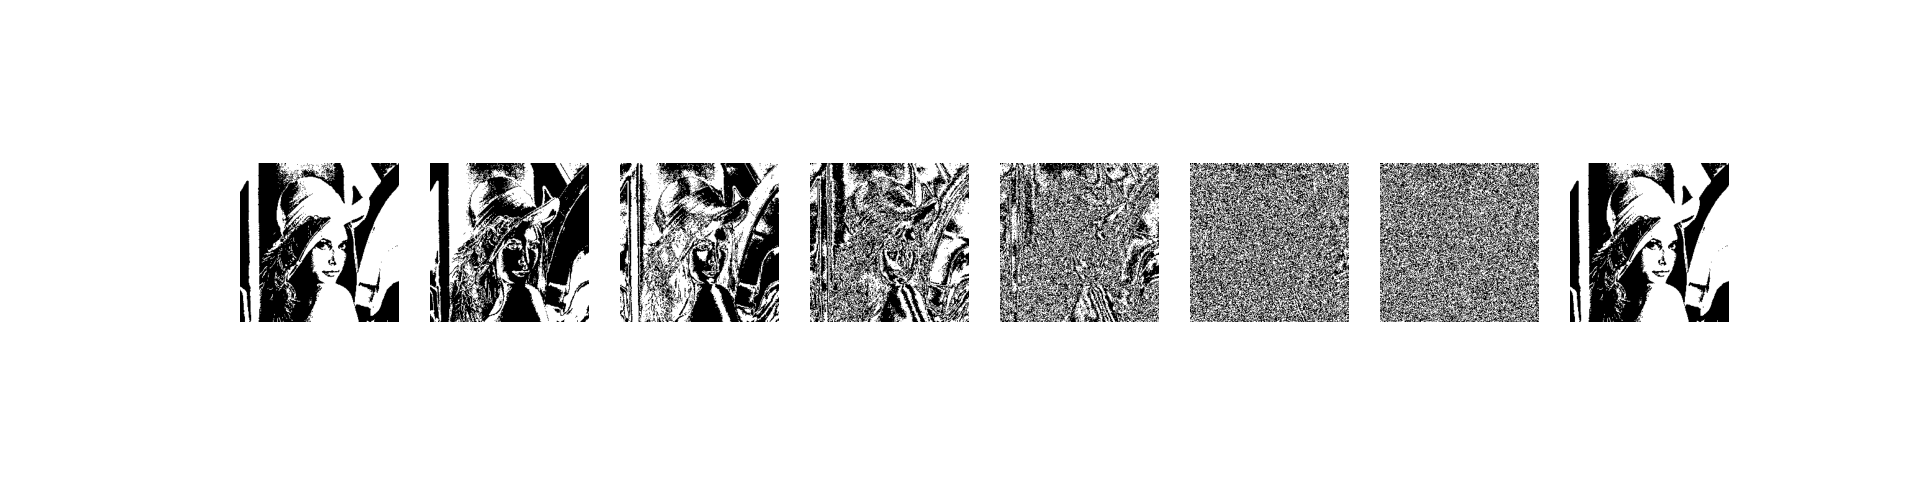
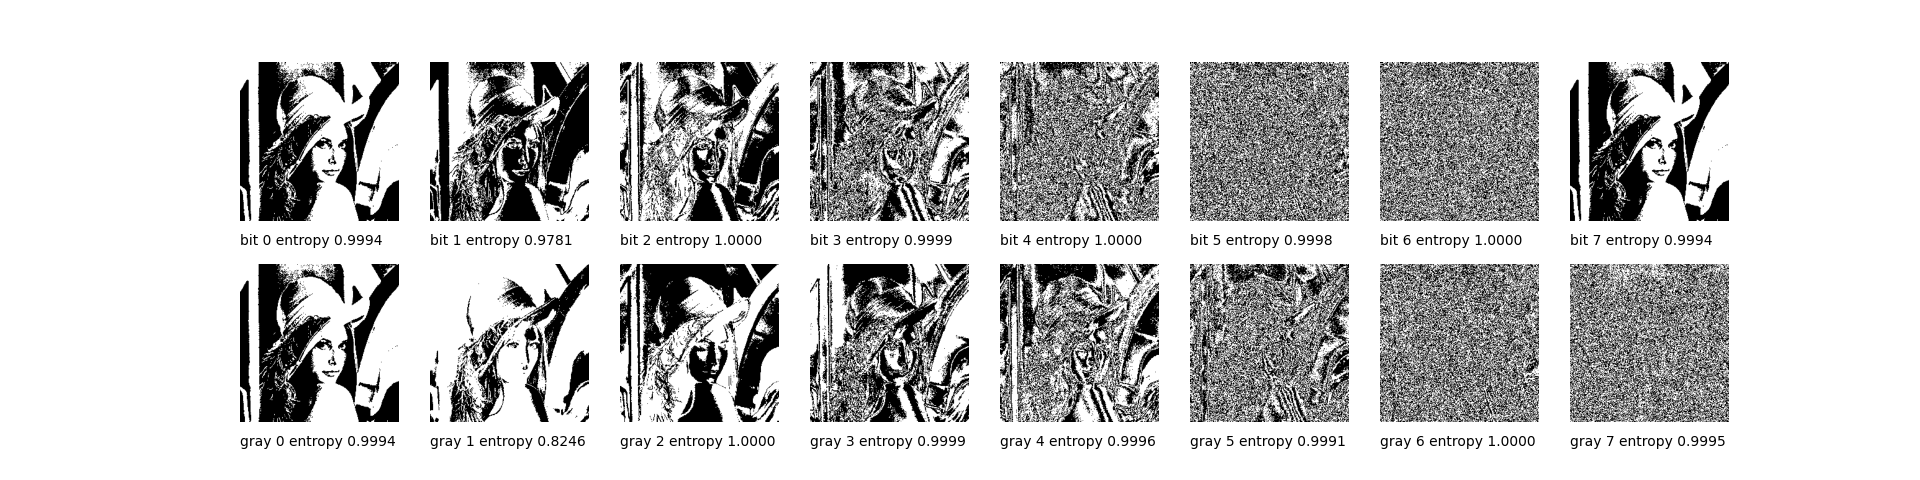
add hw1, hw2, hw3 implementations

diff --git a/hw_0425/hw3.py b/hw_0425/hw3.py
@@ -1,0 +1,55 @@
+import numpy as np
+import imageio as iio
+import matplotlib.pyplot as plt
+
+img = iio.imread("lena.png")
+diff_img = img.flatten() - np.concatenate([[0], img.flatten()[:-1]], 0)
+diff_img = diff_img.reshape(img.shape)
+diff_trunc_img = np.clip(diff_img, -16, 16)
+
+from huffman import *
+from collections import Counter
+
+def get_freq(e):
+  freq = dict(Counter([str(k) for k in e.flatten()]))
+  freq = sorted(freq.items(), key=lambda x: x[1], reverse=True)
+  return freq
+
+img_freq = get_freq(img)
+diff_img_freq = get_freq(diff_img)
+diff_trunc_img_freq = get_freq(diff_trunc_img)
+
+img_code = huffman_code_tree(make_tree(img_freq))
+diff_img_code = huffman_code_tree(make_tree(diff_img_freq))
+diff_trunc_img_code = huffman_code_tree(make_tree(diff_trunc_img_freq))
+
+def get_avg_len(freqs, code):
+  avg_len = []
+  for sym, freq in freqs:
+    avg_len.append(freq * len(code[sym]))
+  avg_len = sum(avg_len) / sum([e[1] for e in freqs])
+  return avg_len
+
+avg_img_len = get_avg_len(img_freq, img_code)
+avg_diff_img_len = get_avg_len(diff_img_freq, diff_img_code)
+avg_diff_trunc_img_len = get_avg_len(diff_trunc_img_freq, diff_trunc_img_code)
+
+print("{} {} {}".format(
+  8/avg_img_len, 8/avg_diff_img_len, 8/avg_diff_trunc_img_len))
+
+fig = plt.figure(figsize=(19.2, 4.8))
+
+ax = fig.add_subplot(1, 3, 1)
+ax.hist(img.flatten(), density=True, bins=60)
+ax.set_title("compression ratio: {}".format(8/avg_img_len))
+
+ax_diff = fig.add_subplot(1, 3, 2)
+ax_diff.hist(diff_img.flatten(), density=True, bins=60)
+ax_diff.set_title("compression ratio: {}".format(8/avg_diff_img_len))
+
+ax_diff_trunc = fig.add_subplot(1, 3, 3)
+ax_diff_trunc.set_xlim(ax_diff.get_xlim())
+ax_diff_trunc.hist(diff_trunc_img.flatten(), density=True, bins=8)
+ax_diff_trunc.set_title("compression ratio: {}".format(8/avg_diff_trunc_img_len))
+
+plt.savefig('hist.png')

diff --git a/hw_0425/hw1.py b/hw_0425/hw1.py
@@ -1,0 +1,55 @@
+import numpy as np
+import imageio as iio
+import matplotlib.pyplot as plt
+from collections import Counter
+
+def get_entropy(e):
+  freq = dict(Counter([str(k) for k in e.flatten()]))
+  prob = np.array([e[1] for e in list(freq.items())])
+  prob = prob / np.sum(prob)
+
+  return sum([-p*np.log2(p) for p in prob])
+
+def get_bits(e):
+  return [(e>>i) % 2 for i in range(8)][::-1]
+
+def conv_gray(e):
+  bits = get_bits(e)
+  gray_bits = [bits[0]]
+  for i in range(1, 8):
+    gray_bits.append((bits[i-1] != bits[i]).astype('int'))
+
+  return sum([gray_bits[i] * (2**(7-i)) for i in range(8)])
+
+img = iio.imread("lena.png")
+gray_img = conv_gray(img)
+
+bit_planes = get_bits(img)
+gray_planes = get_bits(gray_img)
+
+fig = plt.figure(figsize=(19.2, 4.8))
+
+for i in range(8):
+  bit_plane = bit_planes[i]
+  gray_plane = gray_planes[i]
+
+  bit_entropy = get_entropy(bit_plane)
+  gray_entropy = get_entropy(gray_plane)
+
+  ax = fig.add_subplot(2, 8, i+1)
+  ax.set_axis_off()
+  ax.imshow(bit_plane * 255, cmap='gray')
+
+  ax_pos = ax.get_position()
+  fig.text(ax_pos.x0, ax_pos.y0-0.05,
+    "bit {} entropy {:.4f}".format(i, bit_entropy))
+  
+  ax_gray = fig.add_subplot(2, 8, i+9)
+  ax_gray.set_axis_off()
+  ax_gray.imshow(gray_plane * 255, cmap='gray')
+  
+  ax_gray_pos = ax_gray.get_position()
+  fig.text(ax_gray_pos.x0, ax_gray_pos.y0-0.05,
+    "gray {} entropy {:.4f}".format(i, gray_entropy))
+
+plt.savefig('lena_gray.png')

diff --git a/hw_0425/hw2.py b/hw_0425/hw2.py
@@ -1,0 +1,46 @@
+import numpy as np
+import imageio as iio
+import matplotlib.pyplot as plt
+
+img = iio.imread("lena.png")
+
+def quant(e, _min=-255, _max=255, level=2**4):
+  step = (_max - _min) / level
+  qvals = np.linspace(_min, _max, level)
+
+  # TODO
+  if (e + step / 2) < qvals[0]: return qvals[0]
+  for qval in qvals:
+    if (e + step / 2) < qval: return qval
+  return qvals[-1]
+
+def dpcm(img, wa, wb, wc):
+  pred_img = np.zeros_like(img)
+
+  for ridx in range(img.shape[0]):
+    for cidx in range(img.shape[1]):
+      a = pred_img[ridx][cidx-1] if cidx > 0 else 0
+      b = pred_img[ridx-1][cidx] if ridx > 0 else 0
+      c = pred_img[ridx-1][cidx+1] if (ridx > 0 and cidx < (img.shape[1]-1)) else 0
+
+      pred = wa * a + wb * b + wc * c
+      quant_err = quant(img[ridx][cidx] - pred)
+      pred_img[ridx][cidx] = pred + quant_err # TODO
+
+  return pred_img
+
+fig = plt.figure()
+
+ax = fig.add_subplot(1, 3, 1)
+ax.set_axis_off()
+ax.imshow(img, cmap='gray')
+
+ax = fig.add_subplot(1, 3, 2)
+ax.set_axis_off()
+ax.imshow(dpcm(img, 0.97, 0., 0.), cmap='gray')
+
+ax = fig.add_subplot(1, 3, 3)
+ax.set_axis_off()
+ax.imshow(dpcm(img, 0.75, -0.5, 0.75), cmap='gray')
+
+plt.savefig('dpcm.png')

diff --git a/hw_0425/huffman.py b/hw_0425/huffman.py
@@ -1,0 +1,29 @@
+class NodeTree(object):
+  def __init__(self, left=None, right=None):
+    self.left = left
+    self.right = right
+
+  def children(self):
+    return self.left, self.right
+
+  def __str__(self):
+    return self.left, self.right
+
+def huffman_code_tree(node, binString=''):
+  if type(node) is str:
+    return {node: binString}
+  (l, r) = node.children()
+  d = dict()
+  d.update(huffman_code_tree(l, binString + '0'))
+  d.update(huffman_code_tree(r, binString + '1'))
+  return d
+
+def make_tree(nodes):
+  while len(nodes) > 1:
+    (key1, c1) = nodes[-1]
+    (key2, c2) = nodes[-2]
+    nodes = nodes[:-2]
+    node = NodeTree(key1, key2)
+    nodes.append((node, c1 + c2))
+    nodes = sorted(nodes, key=lambda x: x[1], reverse=True)
+  return nodes[0][0]
